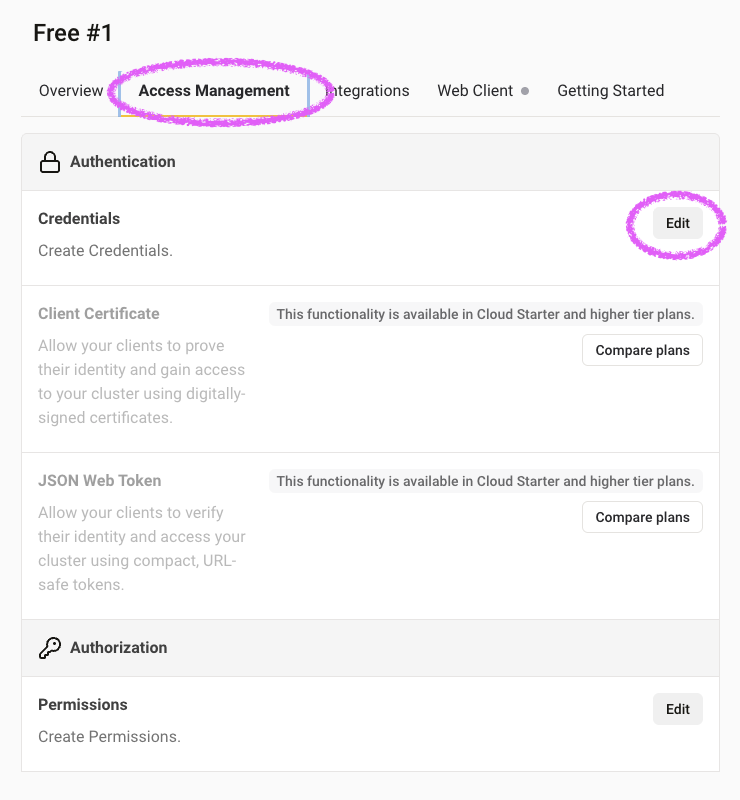
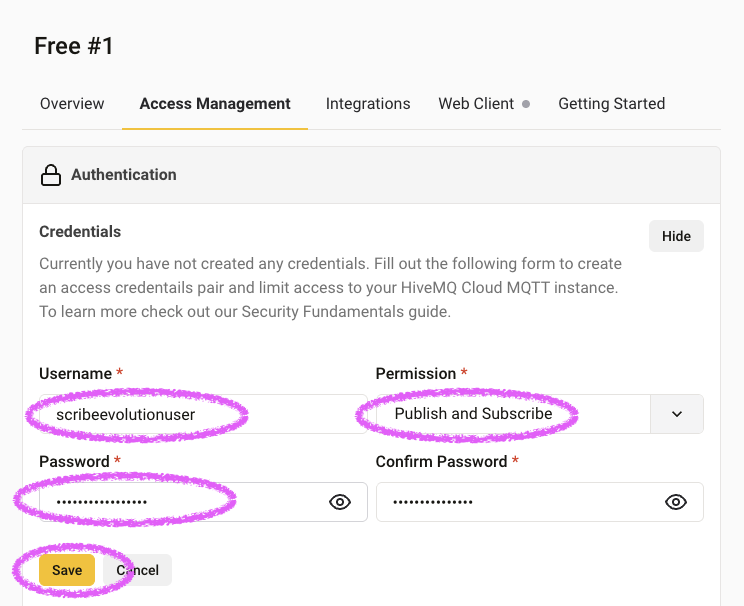
docs

diff --git a/docs/mqtt-integration.md b/docs/mqtt-integration.md
@@ -2,83 +2,59 @@
 
 This guide shows you how to set up remote printing for your Scribe Evolution device using MQTT and HiveMQ Cloud.
 
-## Why Use MQTT?
-
-MQTT unlocks powerful ways to use your Scribe printer:
-
-- 🖨 **Print from anywhere in the world** - Send messages while you're at work, on vacation, or traveling
-- 👥 **Share with friends and family** - Let others send messages to your printer (and you to theirs)
-- 🏠 **Connect your smart home** - Printer responds to calendar reminders, weather alerts, door sensors, timers, and more
-- 📱 **Use any app or service** - Apple Shortcuts, Zapier, home automation, custom scripts - anything that can send HTTP requests
-- 🔒 **Stay secure** - No need to expose your home network to the internet
-
 ## Step 1: Set Up HiveMQ Cloud
 
 HiveMQ Cloud is a free MQTT broker service that routes messages between your devices and services.
 
 ### Create Your HiveMQ Account and Cluster
 
-1. Go to [console.hivemq.cloud](https://console.hivemq.cloud) and click **Sign up**
+1. Go to [console.hivemq.cloud](https://console.hivemq.cloud) and select **Sign up**
 2. Verify your email address
-3. Log in and click **Create cluster**
+3. Log in and select **Create cluster**
 4. Choose the **Free** plan
-5. Select a cluster region close to you
-6. Click **Create**
-7. Wait 1-2 minutes for your cluster to deploy
+5. Select **Create New Cluster**
+
+![Create New Cluster](assets/screenshots/mqtt/HiveMQ-1.png)
+
+6. "Create Serverless Cluster"
+
+![Choose Serverless Cluster](assets/screenshots/mqtt/HiveMQ-2.png)
 
 ### Get Your Cluster Connection Details
 
 Once your cluster is running:
 
-1. Click on your cluster name to open the details page
-2. **Note down these values** (you'll need them later):
-   - **Host** (e.g., `a1b2c3d4.s1.eu.hivemq.cloud`)
-   - **Port** (should be `8883` for secure connections)
-
-![HiveMQ Cluster Details](assets/screenshots/mqtt/HiveMQ-1.png)
+1. Select your cluster name to open the details page
+2. This is where you will find your
+   - **MQTT Host** (e.g., `a1b2c3d4.s1.eu.hivemq.cloud`)
+   - **MQTT Port** (should be `8883` for secure connections)
 
 ### Create MQTT Credentials
 
-Now create a username and password for your Scribe devices:
+Now create a username and password for your Scribe Evolution printer(s) to use:
 
-1. In your cluster details, click **Access Management** (left sidebar)
+1. Select "Manage Cluster"
+   
+   ![Manage cluster](assets/screenshots/mqtt/HiveMQ-3.png)
 
-   ![Access Management](assets/screenshots/mqtt/HiveMQ-2.png)
+2. Select **Access Management** and "Edit"
 
-2. Click **Add Credentials**
+   ![Edit access management](assets/screenshots/mqtt/HiveMQ-4.png)
 
-   ![Add Credentials Form](assets/screenshots/mqtt/HiveMQ-3.png)
-
-3. Enter a username (e.g., `adammain` or `scribe_devices`)
+3. Invent and note down a username (e.g., `scribeevolutionuser` or `scribe_devices`) and password
 4. Set **Permissions** to **Publish and Subscribe**
 
-   ![Permissions Settings](assets/screenshots/mqtt/HiveMQ-4.png)
+   ![Set up user credentials](assets/screenshots/mqtt/HiveMQ-5.png)
 
-5. Click **Add**
-6. **Copy the generated password** - you cannot view it again!
+## Step 2: Configure Your Scribe Evolution
 
-   ![Generated Password](assets/screenshots/mqtt/HiveMQ-5.png)
+Now connect your Scribe Evoluton to your HiveMQ cluster:
 
-7. Store the username and password somewhere safe
-
-> 💡 **Tip**: You can create separate credentials for different devices or users for better security and access tracking.
-
-### Optional: Verify Topic Access
-
-Your credentials should automatically have access to all topics. To verify or restrict access:
-
-1. In **Access Management**, click on your credential
-2. Under **Topic Permissions**, verify it shows `#` (all topics) with Publish & Subscribe
-3. To restrict access, you can set specific patterns like `scribe/+/print`
-
-![Topic Permissions](assets/screenshots/mqtt/HiveMQ-6.png)
-
-## Step 2: Configure Your Scribe Device
-
-Now connect your Scribe printer to your HiveMQ cluster:
-
-1. Open your Scribe web interface (e.g., `http://scribe-yourname.local`)
+1. Open your Scribe Evolution web interface (e.g., `http://scribe-yourname.local`)
 2. Go to **Settings** → **MQTT**
+
+   ![Scribe MQTT Settings](assets/screenshots/mqtt/scribe_UI-1.png)
+
 3. **Enable MQTT** (toggle switch)
 4. Enter your HiveMQ details:
    - **Server**: Your HiveMQ host (e.g., `a1b2c3d4.s1.eu.hivemq.cloud`)
@@ -86,16 +62,35 @@ Now connect your Scribe printer to your HiveMQ cluster:
    - **Username**: The username you created (e.g., `adammain`)
    - **Password**: The password you copied earlier
 
-   ![Scribe MQTT Settings](assets/screenshots/mqtt/scribe_UI-1.png)
-
-5. Click **Test Connection**
+5. Select **Test Connection**
 6. Wait for success confirmation
 
    ![Connection Success](assets/screenshots/mqtt/scribe_UI-2.png)
 
-7. Click **Save**
+7. Select **Save**
 
 > ⚠ **Troubleshooting**: If the test fails, double-check your username, password, and that port is `8883` (not `1883` or `8884`).
+
+## Next Steps
+
+### Connect Scribe Evolution Printers Together
+
+Want to print to friends' printers?
+
+1. Both of you complete HiveMQ setup (you can share the same cluster)
+2. Both of you use the same MQTT credentials
+3. Printers auto-detect each other. Start sending messages!
+
+### Send Messages From Other Devices
+
+To print something, send a structured MQTT message. This might include messages from web services, Apple Shortcuts, Home Assistant, or other apps, see:
+
+- **[Pipedream Integration Guide](pipedream-integration.md)** - Recommended HTTP-to-MQTT bridge (works with Home Assistant, IFTTT, Zapier, etc.)
+- **[Apple Shortcuts Integration](apple-shortcuts.md)** - iOS/macOS automation
+
+---
+
+## Advanced Reference
 
 ### Understanding Topic Names
 
@@ -109,61 +104,6 @@ The device name comes from **Settings** → **Device** → **Owner name**. For e
 
 - If your device name is "Alice", your topic is `scribe/alice/print`
 - If your device name is "Office-Main", your topic is `scribe/office-main/print`
-
-## Step 3: Test Your Connection
-
-Let's send a test message to verify everything works!
-
-### Using Your Scribe Web Interface
-
-The easiest way to test:
-
-1. In your Scribe web interface, go to **Remote Printers**
-2. Add your own printer as a remote printer (yes, printing to yourself!)
-3. Enter your device name
-4. Send a test message
-5. Your printer should print it!
-
-### Using Command Line (Advanced)
-
-If you have `mosquitto_pub` installed:
-
-```bash
-mosquitto_pub -h a1b2c3d4.s1.eu.hivemq.cloud -p 8883 \
-  -u adammain -P your-password \
-  --cafile isrg-root-x1.pem \
-  -t "scribe/alice/print" \
-  -m '{"header":"MESSAGE","body":"Hello from command line!","sender":"Test"}'
-```
-
-Replace:
-
-- `a1b2c3d4.s1.eu.hivemq.cloud` with your HiveMQ host
-- `adammain` with your username
-- `your-password` with your password
-- `alice` with your device name
-
-## Next Steps
-
-### Send Messages from the Internet
-
-To send messages from web services, Apple Shortcuts, or other apps, see:
-
-- **[Pipedream Integration Guide](pipedream-integration.md)** - Recommended HTTP-to-MQTT bridge
-- **[Apple Shortcuts Integration](apple-shortcuts.md)** - iOS/macOS automation
-
-### Connect Multiple Printers
-
-Want to print to friends' printers?
-
-1. Both of you complete HiveMQ setup (you can share the same cluster)
-2. Both of you use the same MQTT credentials
-3. In your Scribe web interface, add their printer under **Remote Printers**
-4. Start sending messages!
-
----
-
-## Advanced Reference
 
 ### Message Format Specification
 
@@ -217,82 +157,3 @@ POST `/api/print-mqtt`
 }
 ```
 
-### Alternative MQTT Broker Options
-
-While we recommend HiveMQ Cloud for ease of use, you can use other brokers:
-
-**Other Cloud Brokers:**
-
-- **AWS IoT Core** - Part of AWS ecosystem, certificate-based authentication, pay-per-use
-- **Azure IoT Hub** - Microsoft's IoT platform, device management features, free tier available
-
-**Self-Hosted Options:**
-
-- **Mosquitto** - Lightweight, popular choice
-- **EMQX** - High-performance, web dashboard
-- **VerneMQ** - Distributed, scalable
-
-### GUI MQTT Testing Tools
-
-If command line isn't your thing, try these visual tools:
-
-- **MQTT Explorer** - Visual topic browser
-- **MQTTX** - Cross-platform client
-- **HiveMQ Web Client** - Browser-based testing
-
-### Home Automation Integration
-
-**Home Assistant** example action:
-
-```yaml
-service: mqtt.publish
-data:
-  topic: scribe/kitchen/print
-  payload: |
-    {"header":"MESSAGE","body":"Good morning! Coffee is ready."}
-```
-
-**Node-RED:**
-Create flows that trigger printing based on:
-
-- Weather alerts
-- Calendar events
-- Sensor readings
-- Time-based schedules
-
-### Security Notes
-
-- **TLS Encryption**: Connections use TLS with CA verification (ISRG Root X1)
-- **Trust Model**: Payloads aren't signed; printers trust messages that reach their subscribed topic. Protect topics via broker authentication and ACLs.
-- **Credentials**: Device avoids logging secrets; keep broker credentials private; prefer per-device users for better security and access tracking
-
-### Troubleshooting
-
-**Messages not printing:**
-
-- Verify topic name matches your device name configuration
-- Check JSON format validity
-- Monitor for MQTT delivery confirmation
-- Check printer hardware and paper
-
-**Delayed messages:**
-
-- Check broker message queue
-- Verify network latency
-- Monitor broker performance
-- Consider local broker for latency-sensitive applications
-
-**Connection issues:**
-
-- Verify credentials and port (should be `8883` for secure)
-- Check firewall isn't blocking MQTT traffic
-- Test with MQTT client tools first
-- Review Diagnostics page for connection status and errors
-
-**Enable verbose logging** in `config.h`:
-
-```cpp
-static const int logLevel = LOG_LEVEL_VERBOSE;
-```
-
-Monitor serial output for detailed MQTT connection and message processing logs.

diff --git a/docs/pipedream-integration.md b/docs/pipedream-integration.md
@@ -1,6 +1,6 @@
 # Pipedream MQTT Bridge Integration Guide
 
-Use Pipedream as a free HTTP→MQTT bridge to send messages to your Scribe from anywhere on the internet - perfect for Apple Shortcuts, web services, and automation tools.
+Use Pipedream as a free HTTP→MQTT bridge to send messages to your Scribe from anywhere on the internet - perfect for Apple Shortcuts, Home Assistant, IFTTT, and other automation tools.
 
 > ⚠ Set up HiveMQ first, see the [MQTT Integration Guide](mqtt-integration.md)
 
@@ -53,7 +53,7 @@ Configure the webhook that will receive HTTP requests and forward them to MQTT.
 2. Configure these settings:
    - **Event Data**: HTTP Body Only
    - **HTTP Response**: "Return a custom response from your workflow"
-   authentication (protects your webhook from unauthorized access):
+     authentication (protects your webhook from unauthorized access):
    - **Authorization**: Custom token
    - **Token**: Create a secure random token
 
@@ -61,7 +61,7 @@ Configure the webhook that will receive HTTP requests and forward them to MQTT.
    >
    > Example: `scribe_a8f3x9sdfsfw34f434334vsvdfvdfvdfverfdv344vb28282882828828090918912m2p7q1`
 
-4. **Save and continue**
+3. **Save and continue**
 
 ![Configure HTTP Trigger](assets/screenshots/mqtt/pipedream/pipedream-4.png)
 
